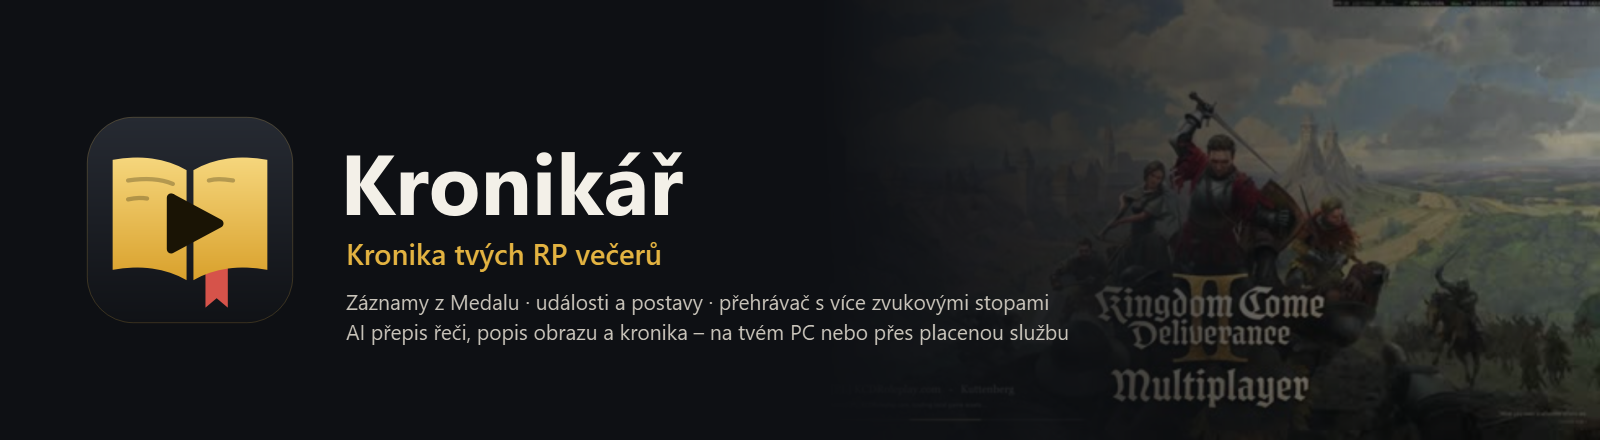
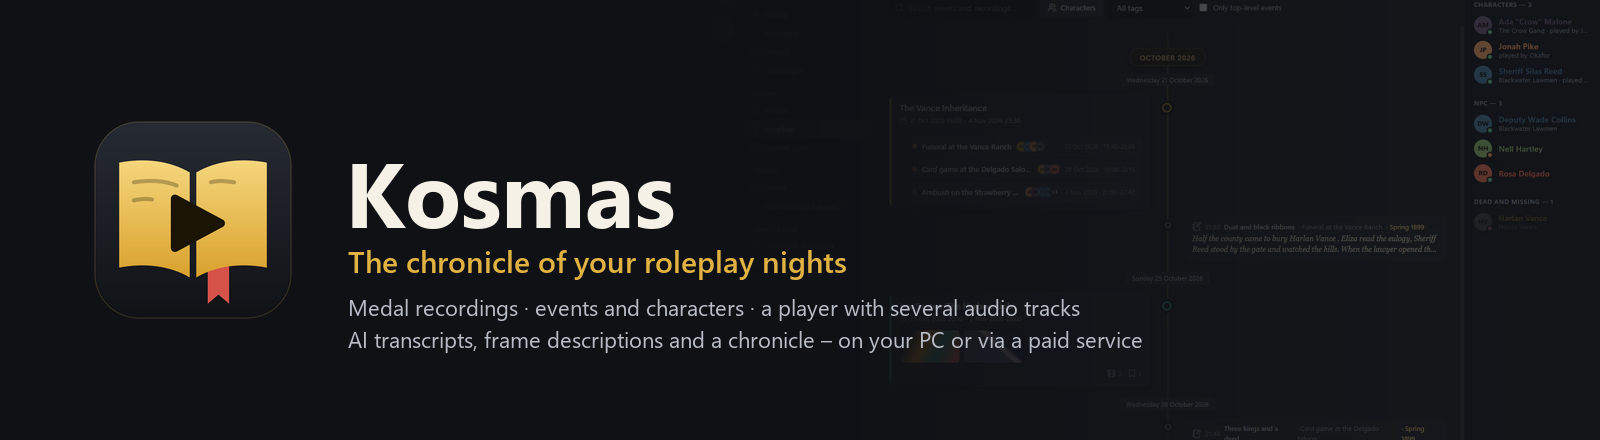
README: download, install, first run, web sync, privacy, licence and links; new screenshots with demo data
English README with a link to the Czech one and back. The old screenshots showed real characters and player
nicknames; they are replaced by English screenshots of made-up demo data and a new Kosmas banner.
'Bookmark' is 'moment' here too, the installer is Kosmas-Setup-<version>.exe.

diff --git a/README.md b/README.md
@@ -1,46 +1,70 @@
 **English** · [Čeština](README.cs.md)
 
-<p align="center"><img src="docs/img/banner.png" alt="Kosmas" width="100%"></p>
+<p align="center"><img src="docs/img/banner.png" alt="Kosmas – the chronicle of your roleplay nights" width="100%"></p>
 
 <p align="center">
-  <a href="https://github.com/gingygames/kosmas/releases/latest"><b>⬇ Download the Windows installer</b></a> ·
-  <a href="#installation">Installation</a> · <a href="#ai-on-your-pc-or-a-paid-service">AI</a> · <a href="#for-developers">For developers</a>
+  <a href="https://github.com/gingygames/kosmas/releases/latest"><b>⬇ Download for Windows</b></a> ·
+  <a href="https://gingygames.com/kosmas/">Web chronicle</a> ·
+  <a href="#install">Install</a> · <a href="#sign-in-and-sync-with-the-web">Sync</a> ·
+  <a href="#ai-on-your-pc-or-a-paid-service">AI</a> · <a href="#privacy">Privacy</a> · <a href="#build-from-source">Build from source</a>
 </p>
 
-# Kosmas — RP chronicle for your Medal recordings
+# Kosmas — the chronicle of your roleplay nights
 
-**Kosmas** (formerly Kronikář, named after Cosmas of Prague, the oldest Czech chronicler) catalogs your [Medal](https://medal.tv) recordings for roleplay players. It gives you:
-- a video library;
-- events with a journal and attachments;
-- a database of characters, factions, places and players;
-- timelines;
-- a player that plays several audio tracks at once (game, Discord, microphone).
+**Kosmas** (formerly Kronikář, named after Cosmas of Prague, the oldest Czech chronicler) is a Windows app that turns your
+[Medal](https://medal.tv) recordings into a roleplay chronicle:
+- a **library** of your recordings and clips, grouped by game and evening;
+- **events** with a write-up, a dated journal and attachments, on a **timeline** (chronicle, Gantt, calendar, character lanes);
+- a database of **characters, factions and houses, places and players**, with relationships and portraits;
+- **moments** – marked points and segments in videos, attached to events and characters;
+- a **player** that plays several audio tracks at once (game, Discord, microphone);
+- optional **AI**: speech transcripts, frame descriptions, name tags read from the screen and a suggested chronicle of the evening;
+- optional **sync with the web chronicle** at [gingygames.com/kosmas](https://gingygames.com/kosmas/) – share a character or an event by link,
+  or use your characters with the community Discord bot.
 
-AI transcribes what was said and describes what's on screen. It reads the name tags above characters' heads and turns an evening of play into a chronicle, complete with suggested events and characters.
-
-The interface is in English, or in Czech if your system language is Czech or Slovak (you can switch it in Settings).
+The interface is in English, or in Czech when Windows is set to Czech or Slovak (Settings → Language: Automatic / English / Čeština).
 
 | | |
 |:-:|:-:|
-| ![Overview](docs/img/prehled.jpg) **Overview**: last session, videos in progress, games | ![Player](docs/img/prehravac.jpg) **Player**: multiple audio tracks, bookmarks, characters in the video |
-| ![Library](docs/img/knihovna.jpg) **Library**: videos by day, filters, search that includes what was said | ![Characters](docs/img/postavy.jpg) **Characters**: portraits, relationships, factions, appearances in recordings |
-| ![Kosmas AI](docs/img/kronikar-ai.jpg) **Kosmas AI**: suggested events, places and characters from the transcript | ![Where AI runs](docs/img/kde-bezi-ai.jpg) **Where AI runs**: recommendations for your PC and cost estimates |
-| ![Moments](docs/img/momenty.jpg) **Moments**: bookmarks and ranges from all your videos | ![Event](docs/img/udalost.jpg) **Event**: write-up, journal, attachments, characters and videos |
+| ![Library](docs/img/desktop-library.webp) **Library** – recordings and clips, filters, characters in each video | ![Player](docs/img/desktop-player.webp) **Player** – several audio tracks, moments, the event next to the video |
+| ![Characters](docs/img/desktop-characters.webp) **Characters** – profile, factions, relationships, events and moments | ![Timeline](docs/img/desktop-timeline.webp) **Timeline** – the story as a chronicle, Gantt chart, calendar or character lanes |
 
-## Installation
-1. Download **[Kronikar-Setup.exe](https://github.com/gingygames/kosmas/releases/latest)**. It runs on 64-bit Windows 10 and 11.
-2. Run it and click **Next → Install**.
-   - No admin rights, no Python, nothing else to install. The video player and ffmpeg are bundled.
-   - A shortcut is added to the Start menu, and to the desktop if you want one.
-3. On first launch, Kosmas finds your Medal folders by itself (`Videos\Medal`, `X:\Medal`). You can add more in Settings.
+<sub>Screenshots use made-up demo data.</sub>
 
-**Updating:** run a newer installer; your data stays put.
+## Download
+Get **Kosmas-Setup-&lt;version&gt;.exe** from [Releases → latest](https://github.com/gingygames/kosmas/releases/latest)
+(also linked from [gingygames.com/kosmas](https://gingygames.com/kosmas/)). 64-bit Windows 10 (1809 or newer) or Windows 11.
 
-**Uninstalling:** via *Windows Settings → Apps*. You'll be asked whether to delete your data as well.
+## Install
+1. Run the installer and click **Next → Install**.
+   - It installs for your user only (`%LOCALAPPDATA%\Programs\Kronikar`): no admin rights, no Python, nothing else needed –
+     the video player (libmpv) and ffmpeg are bundled.
+   - Shortcuts go to the Start menu and to the desktop (you can untick the desktop one).
+2. **Updating:** run a newer installer. It replaces the program and keeps your data; an existing 1.0 install (Kronikář) is updated
+   in place and its old shortcuts are replaced.
+3. **Uninstalling:** *Windows Settings → Apps → Kosmas*. You're asked whether to delete your catalogue too (default: keep it);
+   your videos are never deleted.
 
-**Data** lives in `%LOCALAPPDATA%\Kronikar` (catalog, settings, thumbnails, transcripts). Back this folder up.
+## First run
+- Kosmas looks for your Medal folders by itself (`Videos\Medal`, `X:\Medal`). Add other folders in **Settings → Recording folders**.
+  Medal's own database is only ever read, never written.
+- Your catalogue lives in `%LOCALAPPDATA%\Kronikar` (catalog.db, settings, thumbnails, attachments, transcripts). Back this folder up;
+  Settings → Catalog data shows the exact path and opens it.
+- If you used Kosmas before from a source checkout or a portable copy, the first start finds that catalogue and **asks** whether to copy
+  it in. The original folder is never moved or changed.
+- Want to try things out without cluttering your chronicle? Mark records as test data (⋯ → *Mark as test record*): they are hidden
+  unless **Settings → Test data → Show test data** is on, they never sync, and *Delete test data* removes them (after a backup).
 
-> If you used to run the app from source, the installed version picks up your existing data automatically on first launch.
+## Sign in and sync with the web
+The web chronicle at [gingygames.com/kosmas](https://gingygames.com/kosmas/) shows your characters, events, factions and places in the
+browser and lets you share them.
+1. **Settings → Web chronicle → Sign in with Discord.** Your browser opens; sign in with Discord and click **Allow**. Nothing to copy.
+   (If the browser can't return to the app, use the code shown instead.)
+2. **Sync now** – or tick *Sync after the app starts*. Changes go both ways; when both sides changed the same record you choose which wins.
+3. Everything on the web is **private** until you share it: the **Share** button on a character, faction, place, event or moment offers
+   *Only me*, *Anyone with the link* or *Public*.
+4. **Use on Discord** (in a character's Edit form) puts the character on the community Discord bot as a card.
+5. *Sign out / disconnect this device* revokes the device's access; you can also disconnect devices on the web (Settings → Sync).
 
 ## AI: on your PC, or a paid service
 The first time you transcribe something, you choose where the AI should run. The choice lives in **Transcripts → Where AI runs**, and you can change it at any time, even separately for each part (speech, vision, chronicle).
@@ -106,7 +130,7 @@ the character list hides itself.
   (generated in the background the first time you play a video and saved to `data/previews`).
 - Audio track presets (the sliders button, Ctrl+Shift+1…9) and default tracks for each game.
 - Videos resume where you left off (red progress bar on the card, "Continue watching" on the Overview).
-- `O` / the **Character** button tags who is in the video at this moment.
+- `C` / the **Character** button tags who is in the video at this moment.
 - Snapshots and images taken from videos have a "Play video from …" button.
 
 ## Screens
@@ -119,17 +143,17 @@ the character list hides itself.
 - **Characters** – a profile with portrait, faction, status, player, biography, relationships, events,
   videos and journal mentions.
 - **Timeline** – four views: Chronicle, Timeline (zoomable Gantt chart), Calendar, Characters (lanes).
-- **Moments** – all bookmarks and ranges (virtual clips) from your videos, grouped by recording,
-  with an unassigned / in events filter. Bookmarks you set in Medal with a hotkey are imported automatically
+- **Moments** – all moments and segments (virtual clips) from your videos, grouped by recording,
+  with an unassigned / in events filter. Moments you mark in Medal with a hotkey are imported automatically
   (automatic game moments such as "Double Kill" are hidden, but can be turned on).
 - **Gallery** – all screenshots and snapshots from videos.
 - **Settings** – language (Automatic / English / Čeština; Automatic means Czech when your system language is Czech or Slovak,
   English otherwise), appearance (7 themes, accent color, interface size, corner rounding, font, animations,
   player layout), folders, clip/recording rules, default audio tracks, game renaming.
 
-## Bookmarks and ranges
-`B` = bookmark at the current position, `Shift+B` = start and then end of a range, `P` = bookmark straight into an
-event. A bookmark has a name, note, color, characters and event; a range plays and then stops on its own.
+## Moments and segments
+`B` = moment at the current position, `Shift+B` = start and then end of a segment, `P` = moment straight into an
+event. A moment has a name, note, color, characters and event; a segment plays and then stops on its own.
 You'll find them in Moments, in the video inspector in the Library, on events (Recordings → Moments), on characters,
 and as little flags on the Timeline.
 
@@ -161,7 +185,7 @@ Video decoding runs on the GPU (libmpv, `hwdec=auto-safe`, `vo=gpu-next`).
 - **Players from a server:** Settings → Discord: bot token + server ID → "Load members and create players" (name and avatar),
   then "Link with Discord" on a player, and "Update names and avatars". The bot needs the *Server Members Intent* enabled.
 - **Pigeon post from the clipboard (DMs):** in Discord, select messages by dragging the mouse, press Ctrl+C, then Ctrl+V in Pigeon post
-  (or Add → Paste from clipboard). It recognizes the author, time and text, preselects messages containing the word "holub" (pigeon),
+  (or Add → Paste from clipboard). It recognizes the author, time and text, preselects messages containing the marker word ("holub" = pigeon by default),
   matches the author to a character via their player, and pasting the same thing twice won't create duplicates.
 - **Pigeon post:** letters (messages containing the word "holub"; the keyword can be changed) from a server channel via a bot
   (*Message Content Intent*), from Discord's official data export (your own messages only), or entered by hand.
@@ -219,7 +243,7 @@ Medal icons, a file, a URL, the clipboard or a frame from a video – all with c
   server, as well as new characters, events, factions and places (when a game is selected), get the default server.
 - A new character's type is "Character" (previously NPC). Bulk character editing: Ctrl/Shift + click, then right-click.
 
-## For developers
+## Build from source
 **Tech stack:**
 - Python 3.12 + PySide6. The UI lives in `rpcatalog/web/` and runs offline in Qt WebEngine.
 - The player is libmpv (`vendor/libmpv-2.dll`), icons are Lucide, and thumbnails are made with ffmpeg/ffprobe.
@@ -232,7 +256,7 @@ Medal icons, a file, a URL, the clipboard or a frame from a video – all with c
   - `keystore.py`: keys in Windows Credential Manager;
   - `ai_setup.py`: sign-in, Ollama installation and model downloads.
 
-**Running from source**
+**Run from source**
 1. Install Python 3.12 and run this in the project root:
    ```
    python -m venv .venv
@@ -241,11 +265,32 @@ Medal icons, a file, a URL, the clipboard or a frame from a video – all with c
 2. Download `mpv-dev-x86_64-…7z` from [shinchiro/mpv-winbuild-cmake](https://github.com/shinchiro/mpv-winbuild-cmake/releases) and put the `libmpv-2.dll` from it into the `vendor/` folder.
    It isn't committed to git because it's over 100 MB.
 3. Put ffmpeg/ffprobe on your PATH (`winget install Gyan.FFmpeg`).
-4. Run `Kronikar.bat`. Data is then stored in the `data/` folder next to the code.
+4. Run `Kronikar.bat`. Data is then stored in the `data/` folder next to the code; set `KRONIKAR_DATA` to use another (e.g. empty test) folder.
+5. Tests: `python -m unittest discover -s tests` (the sync tests need the local web backend, otherwise they are skipped).
 
 **Building the installer:** run `.venv\Scripts\python.exe installer\build.py`. The script:
 1. downloads an embeddable Python 3.12;
 2. bundles the packages from `installer/requirements-dist.txt`, libmpv, ffmpeg and the `Kronikar.exe` launcher with its icon;
-3. uses Inno Setup to create `build/Kronikar-Setup-<version>.exe`. The version is taken from `rpcatalog/__init__.py`.
+3. uses Inno Setup to create `build/Kosmas-Setup-<version>.exe`. The version is taken from `rpcatalog/__init__.py`.
 
 `installer/make_icon.py` regenerates the icon from `rpcatalog/web/icon.svg`.
+
+## Privacy
+Kosmas is **local first**: your catalogue is a SQLite file on your PC and everything works offline.
+- **Nothing is uploaded unless you sign in and sync.** Then only the chronicle goes to the web (characters, factions, places, players' names,
+  events, entries, moments, images you attached, video titles and YouTube links). Video files are never uploaded; for a local video only its
+  title, length and path relative to your recordings folder are sent. Player contacts and Discord bot tokens never leave your PC;
+  pigeon post only if you tick it. Test records never sync.
+- What you sync is private on the web until you share it.
+- **AI on this PC** keeps everything on the PC. With a **paid service**, only the audio (speech) or frames and transcript text go to the
+  service you picked; API keys are stored encrypted in Windows Credential Manager.
+- Medal's database is read-only for Kosmas; deleting a video moves it to the Recycle Bin.
+
+## Licence
+This repository doesn't have a licence file yet, so no licence is granted for the code. Bundled third-party components keep their own
+licences: libmpv (mpv), FFmpeg (GPL build), Qt/PySide6 (LGPL), Lucide icons (ISC).
+
+## Links
+- Web chronicle: https://gingygames.com/kosmas/
+- Download: https://github.com/gingygames/kosmas/releases/latest
+- Issues and ideas: https://github.com/gingygames/kosmas/issues

diff --git a/README.cs.md b/README.cs.md
@@ -1,44 +1,71 @@
 [English](README.md) · **Čeština**
 
-<p align="center"><img src="docs/img/banner.png" alt="Kosmas" width="100%"></p>
+<p align="center"><img src="docs/img/banner-cs.png" alt="Kosmas – kronika tvých RP večerů" width="100%"></p>
 
 <p align="center">
-  <a href="https://github.com/gingygames/kosmas/releases/latest"><b>⬇ Stáhnout instalátor pro Windows</b></a> ·
-  <a href="#instalace">Instalace</a> · <a href="#ai-na-tvém-pc-nebo-placená-služba">AI</a> · <a href="#pro-vývojáře">Pro vývojáře</a>
+  <a href="https://github.com/gingygames/kosmas/releases/latest"><b>⬇ Stáhnout pro Windows</b></a> ·
+  <a href="https://gingygames.com/kosmas/">Webová kronika</a> ·
+  <a href="#instalace">Instalace</a> · <a href="#přihlášení-a-synchronizace-s-webem">Synchronizace</a> ·
+  <a href="#ai-na-tvém-pc-nebo-placená-služba">AI</a> · <a href="#soukromí">Soukromí</a> · <a href="#sestavení-ze-zdrojových-kódů">Ze zdrojových kódů</a>
 </p>
 
-# Kosmas — kronika pro RP hráče
+# Kosmas — kronika tvých RP večerů
 
-**Kosmas** (dříve Kronikář, pojmenovaný po nejstarším českém kronikáři) je katalog záznamů z [Medalu](https://medal.tv) pro hráče RP. Obsahuje:
-- knihovnu videí;
-- události s deníkem a přílohami;
-- databázi postav, frakcí, míst a hráčů;
-- časové osy;
-- přehrávač, který hraje víc zvukových stop najednou (hra, Discord, mikrofon).
+**Kosmas** (dříve Kronikář, pojmenovaný po nejstarším českém kronikáři) je aplikace pro Windows, která z tvých záznamů z
+[Medalu](https://medal.tv) udělá kroniku hraní rolí:
+- **knihovna** záznamů a klipů podle her a večerů;
+- **události** se zápisem, deníkem a přílohami na **časové ose** (kronika, Gantt, kalendář, dráhy postav);
+- databáze **postav, frakcí a rodů, míst a hráčů** se vztahy a portréty;
+- **momenty** – označená místa a úseky ve videích, přiřazené k událostem a postavám;
+- **přehrávač**, který hraje víc zvukových stop najednou (hra, Discord, mikrofon);
+- volitelně **AI**: přepis řeči, popis obrazu, jmenovky přečtené z obrazovky a návrh kroniky večera;
+- volitelně **synchronizace s webovou kronikou** na [gingygames.com/kosmas](https://gingygames.com/kosmas/) – postavu nebo událost
+  nasdílíš odkazem a postavy použiješ v komunitním botovi na Discordu.
 
-AI přepíše, co zaznělo, a popíše obraz. Přečte jmenovky nad hlavami a sepíše z večera kroniku s návrhy událostí a postav.
+Rozhraní je anglicky, nebo česky, když máš Windows v češtině či slovenštině (Nastavení → Jazyk: Automaticky / English / Čeština).
 
 | | |
 |:-:|:-:|
-| ![Přehled](docs/img/prehled.jpg) **Přehled**: poslední večer, rozkoukaná videa, hry | ![Přehrávač](docs/img/prehravac.jpg) **Přehrávač**: víc zvukových stop, záložky, postavy ve videu |
-| ![Knihovna](docs/img/knihovna.jpg) **Knihovna**: videa po dnech, filtry, hledání i v tom, co zaznělo | ![Postavy](docs/img/postavy.jpg) **Postavy**: portréty, vztahy, frakce, výskyty v záznamech |
-| ![Kosmas AI](docs/img/kronikar-ai.jpg) **Kosmas AI**: návrhy událostí, míst a postav z přepisu | ![Kde běží AI](docs/img/kde-bezi-ai.jpg) **Kde běží AI**: doporučení podle tvého PC a odhad ceny |
-| ![Momenty](docs/img/momenty.jpg) **Momenty**: záložky a úseky ze všech videí | ![Událost](docs/img/udalost.jpg) **Událost**: zápis, deník, přílohy, postavy a videa |
+| ![Knihovna](docs/img/desktop-library.webp) **Knihovna** – záznamy a klipy, filtry, postavy v každém videu | ![Přehrávač](docs/img/desktop-player.webp) **Přehrávač** – víc zvukových stop, momenty, událost vedle videa |
+| ![Postavy](docs/img/desktop-characters.webp) **Postavy** – profil, frakce, vztahy, události a momenty | ![Časová osa](docs/img/desktop-timeline.webp) **Časová osa** – příběh jako kronika, Gantt, kalendář nebo dráhy postav |
+
+<sub>Snímky ukazují smyšlená ukázková data (anglické rozhraní).</sub>
+
+## Stažení
+Stáhni **Kosmas-Setup-&lt;verze&gt;.exe** z [Releases → latest](https://github.com/gingygames/kosmas/releases/latest)
+(odkaz je i na [gingygames.com/kosmas](https://gingygames.com/kosmas/)). 64bitové Windows 10 (1809 a novější) nebo Windows 11.
 
 ## Instalace
-1. Stáhni **[Kronikar-Setup.exe](https://github.com/gingygames/kosmas/releases/latest)**. Funguje na 64bitových Windows 10 a 11.
-2. Spusť ho a klikni na **Další → Instalovat**.
-   - Nepotřebuje práva správce ani Python a nic dalšího se instalovat nemusí. Přehrávač i ffmpeg jsou uvnitř.
-   - Zástupce se objeví v nabídce Start, pokud chceš, i na ploše.
-3. Při prvním spuštění Kosmas sám najde složky Medalu (`Videa\Medal`, `X:\Medal`). Další přidáš v Nastavení.
+1. Spusť instalátor a klikni na **Další → Instalovat**.
+   - Instaluje se jen pro tvého uživatele (`%LOCALAPPDATA%\Programs\Kronikar`): bez práv správce, bez Pythonu, nic dalšího –
+     přehrávač (libmpv) i ffmpeg jsou uvnitř.
+   - Zástupci se vytvoří v nabídce Start a na ploše (ten na ploše můžeš odškrtnout).
+2. **Aktualizace:** spusť novější instalátor. Nahradí program a data nechá; existující instalaci 1.0 (Kronikář) aktualizuje na místě
+   a staré zástupce nahradí.
+3. **Odinstalace:** *Nastavení Windows → Aplikace → Kosmas*. Zeptá se, jestli smazat i katalog (výchozí je ponechat); videa se nikdy nemažou.
 
-**Aktualizace:** spusť novější instalátor, data zůstanou.
+## První spuštění
+- Kosmas sám najde složky Medalu (`Videa\Medal`, `X:\Medal`). Další přidáš v **Nastavení → Složky se záznamy**.
+  Databázi Medalu jen čte, nikdy do ní nezapisuje.
+- Katalog je v `%LOCALAPPDATA%\Kronikar` (catalog.db, nastavení, náhledy, přílohy, přepisy). Tuhle složku zálohuj;
+  Nastavení → Data katalogu ukáže přesnou cestu a otevře ji.
+- Pokud jsi Kosmase dřív spouštěl ze zdrojových kódů nebo z přenosné kopie, první spuštění ten katalog najde a **zeptá se**,
+  jestli ho má zkopírovat. Původní složka se nikdy nepřesouvá ani nemění.
+- Chceš si něco vyzkoušet a nezaneřádit kroniku? Označ záznamy jako testovací (⋯ → *Označit jako testovací záznam*): jsou skryté,
+  dokud nezapneš **Nastavení → Testovací data → Zobrazit testovací data**, nikdy se nesynchronizují a *Smazat testovací data* je
+  odstraní (po záloze).
 
-**Odinstalace:** přes *Nastavení Windows → Aplikace*. Zeptá se, jestli smazat i data.
-
-**Data** jsou v `%LOCALAPPDATA%\Kronikar` (katalog, nastavení, náhledy, přepisy). Tuhle složku zálohuj.
-
-> Pokud jsi aplikaci dřív spouštěl ze zdrojových kódů, nainstalovaná verze si při prvním spuštění tvoje data sama převezme.
+## Přihlášení a synchronizace s webem
+Webová kronika na [gingygames.com/kosmas](https://gingygames.com/kosmas/) ukáže tvoje postavy, události, frakce a místa v prohlížeči
+a umožní je sdílet.
+1. **Nastavení → Webová kronika → Přihlásit se přes Discord.** Otevře se prohlížeč; přihlas se Discordem a klikni na **Povolit**. Nic se nekopíruje.
+   (Když se prohlížeč nemůže vrátit do aplikace, použij zobrazený kód.)
+2. **Synchronizovat teď** – nebo zaškrtni *Synchronizovat po startu aplikace*. Změny jdou oběma směry; když se tentýž záznam změnil na obou stranách,
+   vybereš, která verze platí.
+3. Všechno na webu je **soukromé**, dokud to nenasdílíš: tlačítko **Sdílet** u postavy, frakce, místa, události nebo momentu nabízí
+   *Jen já*, *Kdo má odkaz* a *Veřejné*.
+4. **Používat na Discordu** (v úpravách postavy) dá postavu jako kartu do komunitního bota na Discordu.
+5. *Odhlásit / odpojit toto zařízení* zruší přístup zařízení; zařízení můžeš odpojit i na webu (Nastavení → Synchronizace).
 
 ## AI: na tvém PC, nebo placená služba
 Při prvním přepisu si vybereš, kde má AI běžet. Najdeš to v **Přepisy → Kde běží AI**. Volbu jde kdykoli změnit, i zvlášť pro každou část.
@@ -104,7 +131,7 @@ okně se seznam postav sám schová.
   (vygeneruje se na pozadí při prvním přehrání, uloží se do `data/previews`).
 - Předvolby zvukových stop (tlačítko s posuvníky, Ctrl+Shift+1…9) a výchozí stopy pro každou hru.
 - Video pokračuje tam, kde jsi skončil (červený proužek na kartě, „Pokračovat ve sledování“ na Přehledu).
-- `O` / tlačítko **Postava** označí, kdo je ve videu v tomto momentu.
+- `C` / tlačítko **Postava** označí, kdo je ve videu v tomto momentu.
 - Snímky a obrázky z videí mají tlačítko „Přehrát video od …“.
 
 ## Obrazovky
@@ -117,16 +144,16 @@ okně se seznam postav sám schová.
 - **Postavy** – profil s portrétem, frakcí, stavem, hráčem, životopisem, vztahy, událostmi,
   videi a zmínkami v deníku.
 - **Osa** – čtyři pohledy: Kronika, Osa (zoomovatelný Gantt), Kalendář, Postavy (dráhy).
-- **Momenty** – všechny záložky a úseky (virtuální klipy) z videí, seskupené podle záznamu,
-  filtr nepřiřazené / v událostech. Záložky udělané v Medalu klávesou se načtou samy
+- **Momenty** – všechny momenty a úseky (virtuální klipy) z videí, seskupené podle záznamu,
+  filtr nepřiřazené / v událostech. Momenty označené v Medalu klávesou se načtou samy
   (automatické herní momenty typu „Double Kill“ jsou skryté, dají se zapnout).
 - **Galerie** – všechny screenshoty a snímky z videí.
 - **Nastavení** – jazyk (Automaticky / English / Čeština; automaticky = čeština, když je systém česky nebo slovensky, jinak angličtina), vzhled (7 motivů, barva zvýraznění, velikost rozhraní, zaoblení, písmo, animace,
   rozložení přehrávače), složky, pravidla klip/záznam, výchozí zvukové stopy, přejmenování her.
 
-## Záložky a úseky
-`B` = záložka v aktuálním místě, `Shift+B` = začátek a pak konec úseku, `P` = záložka rovnou do
-události. Záložka má název, poznámku, barvu, postavy a událost; úsek se přehraje a sám zastaví.
+## Momenty a úseky
+`B` = moment v aktuálním místě, `Shift+B` = začátek a pak konec úseku, `P` = moment rovnou do
+události. Moment má název, poznámku, barvu, postavy a událost; úsek se přehraje a sám zastaví.
 Najdeš je v Momentech, v inspektoru videa v Knihovně, u události (Záznamy → Momenty), u postavy
 a na Ose jako praporky.
 
@@ -216,7 +243,7 @@ ikony z Medalu, soubor, URL, schránka nebo snímek z videa – vše s ořezem.
   serveru i nové postavy, události, frakce a místa (když je vybraná hra) dostanou výchozí server.
 - Nová postava má typ „Postava“ (dřív NPC). Hromadné úpravy postav: Ctrl/Shift + klik a pravé tlačítko.
 
-## Pro vývojáře
+## Sestavení ze zdrojových kódů
 **Technika:**
 - Python 3.12 + PySide6. Rozhraní je v `rpcatalog/web/` a běží offline v Qt WebEngine.
 - Přehrávač je libmpv (`vendor/libmpv-2.dll`), ikony jsou Lucide, na náhledy slouží ffmpeg/ffprobe.
@@ -238,11 +265,32 @@ ikony z Medalu, soubor, URL, schránka nebo snímek z videa – vše s ořezem.
 2. Stáhni `mpv-dev-x86_64-…7z` z [shinchiro/mpv-winbuild-cmake](https://github.com/shinchiro/mpv-winbuild-cmake/releases) a soubor `libmpv-2.dll` z něj dej do složky `vendor/`.
    Do gitu se nenahrává, má přes 100 MB.
 3. Dej ffmpeg/ffprobe na PATH (`winget install Gyan.FFmpeg`).
-4. Spusť `Kronikar.bat`. Data jsou pak ve složce `data/` vedle kódu.
+4. Spusť `Kronikar.bat`. Data jsou pak ve složce `data/` vedle kódu; proměnná `KRONIKAR_DATA` nastaví jinou (třeba prázdnou testovací) složku.
+5. Testy: `python -m unittest discover -s tests` (testy synchronizace potřebují lokální webový backend, jinak se přeskočí).
 
 **Sestavení instalátoru:** spusť `.venv\Scripts\python.exe installer\build.py`. Skript:
 1. stáhne vestavěný Python 3.12;
 2. přibalí balíčky z `installer/requirements-dist.txt`, libmpv, ffmpeg a spouštěč `Kronikar.exe` s ikonou;
-3. přes Inno Setup vytvoří `build/Kronikar-Setup-<verze>.exe`. Verze se bere z `rpcatalog/__init__.py`.
+3. přes Inno Setup vytvoří `build/Kosmas-Setup-<verze>.exe`. Verze se bere z `rpcatalog/__init__.py`.
 
 Ikonu z `rpcatalog/web/icon.svg` přegeneruje `installer/make_icon.py`.
+
+## Soukromí
+Kosmas je **local first**: katalog je soubor SQLite na tvém PC a všechno funguje offline.
+- **Nic se nenahrává, dokud se nepřihlásíš a nesynchronizuješ.** Pak jde na web jen kronika (postavy, frakce, místa, jména hráčů,
+  události, zápisy, momenty, obrázky, které jsi přiložil, názvy videí a odkazy na YouTube). Soubory videí se nenahrávají nikdy; u lokálního
+  videa se posílá jen název, délka a cesta relativní ke složce se záznamy. Kontakty hráčů a tokeny botů neopustí tvoje PC;
+  holubí pošta jen když ji zaškrtneš. Testovací záznamy se nesynchronizují nikdy.
+- Co synchronizuješ, je na webu soukromé, dokud to nenasdílíš.
+- **AI na tomto PC** nechá všechno v PC. U **placené služby** jde do vybrané služby jen zvuk (řeč) nebo snímky a text přepisu;
+  API klíče jsou šifrovaně ve Správci přihlašovacích údajů Windows.
+- Databázi Medalu Kosmas jen čte; smazané video jde do Koše.
+
+## Licence
+Repozitář zatím nemá soubor s licencí, takže ke kódu žádná licence udělená není. Přibalené komponenty mají vlastní licence:
+libmpv (mpv), FFmpeg (GPL build), Qt/PySide6 (LGPL), ikony Lucide (ISC).
+
+## Odkazy
+- Webová kronika: https://gingygames.com/kosmas/
+- Stažení: https://github.com/gingygames/kosmas/releases/latest
+- Chyby a nápady: https://github.com/gingygames/kosmas/issues
